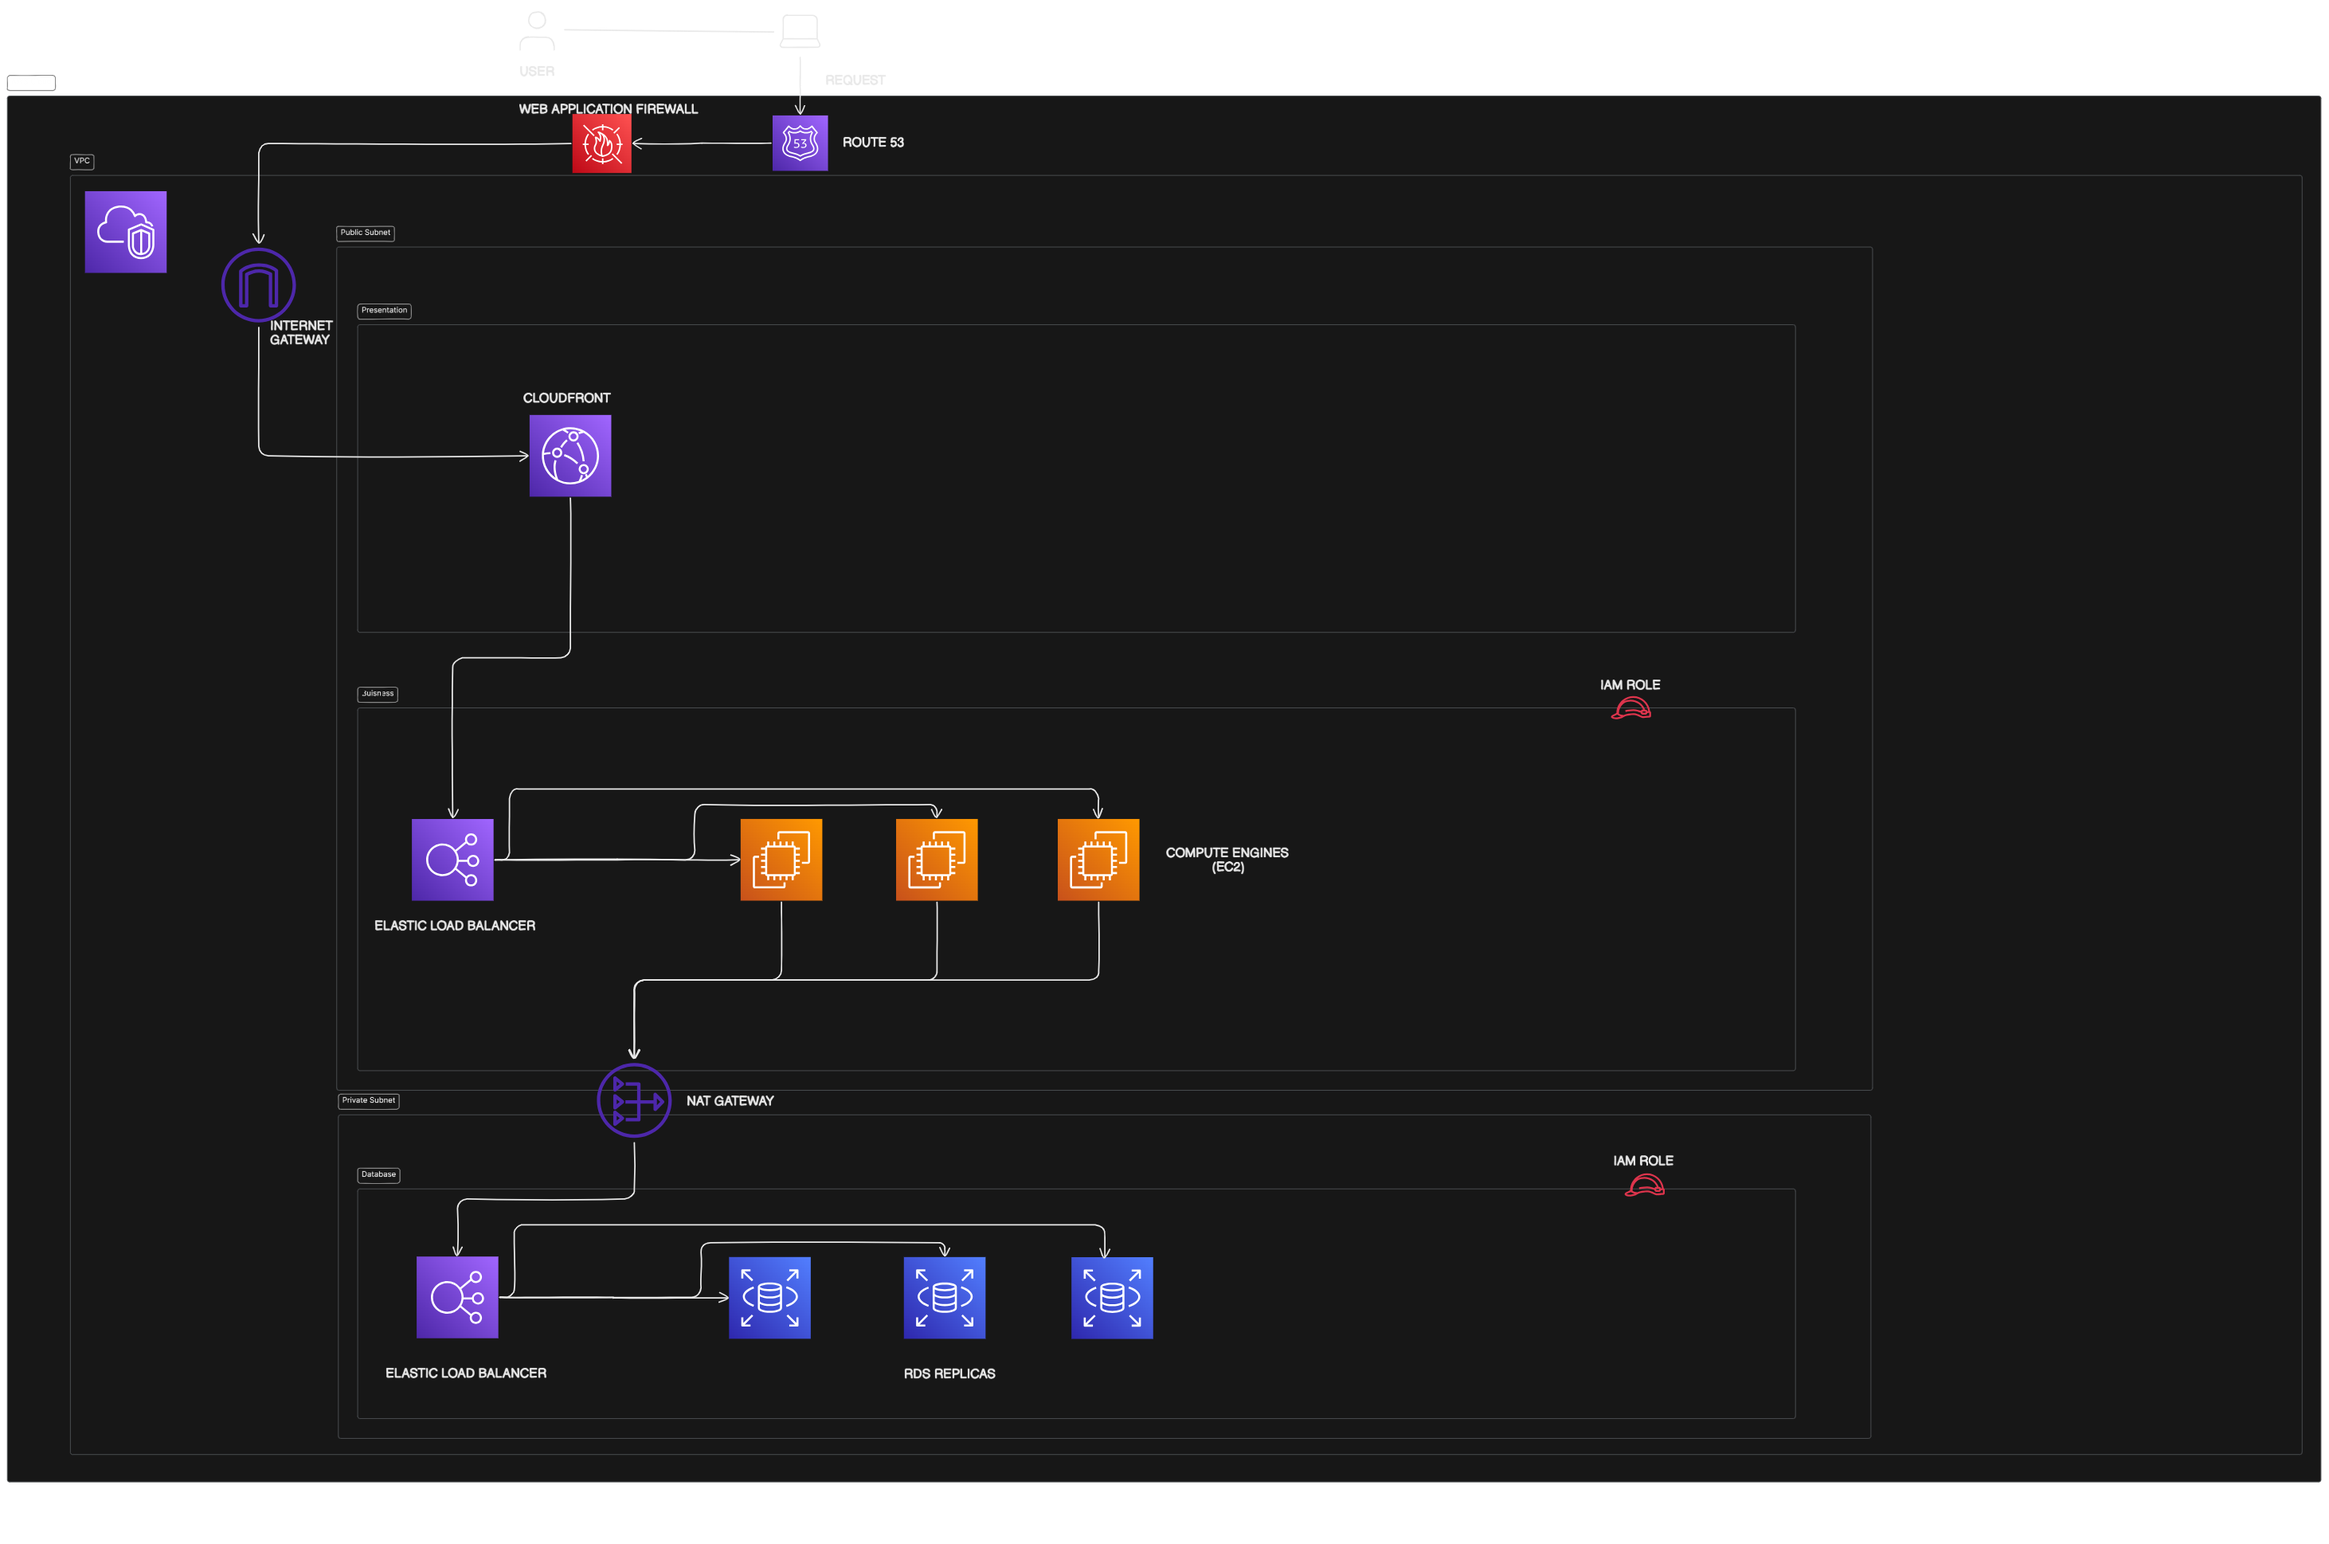
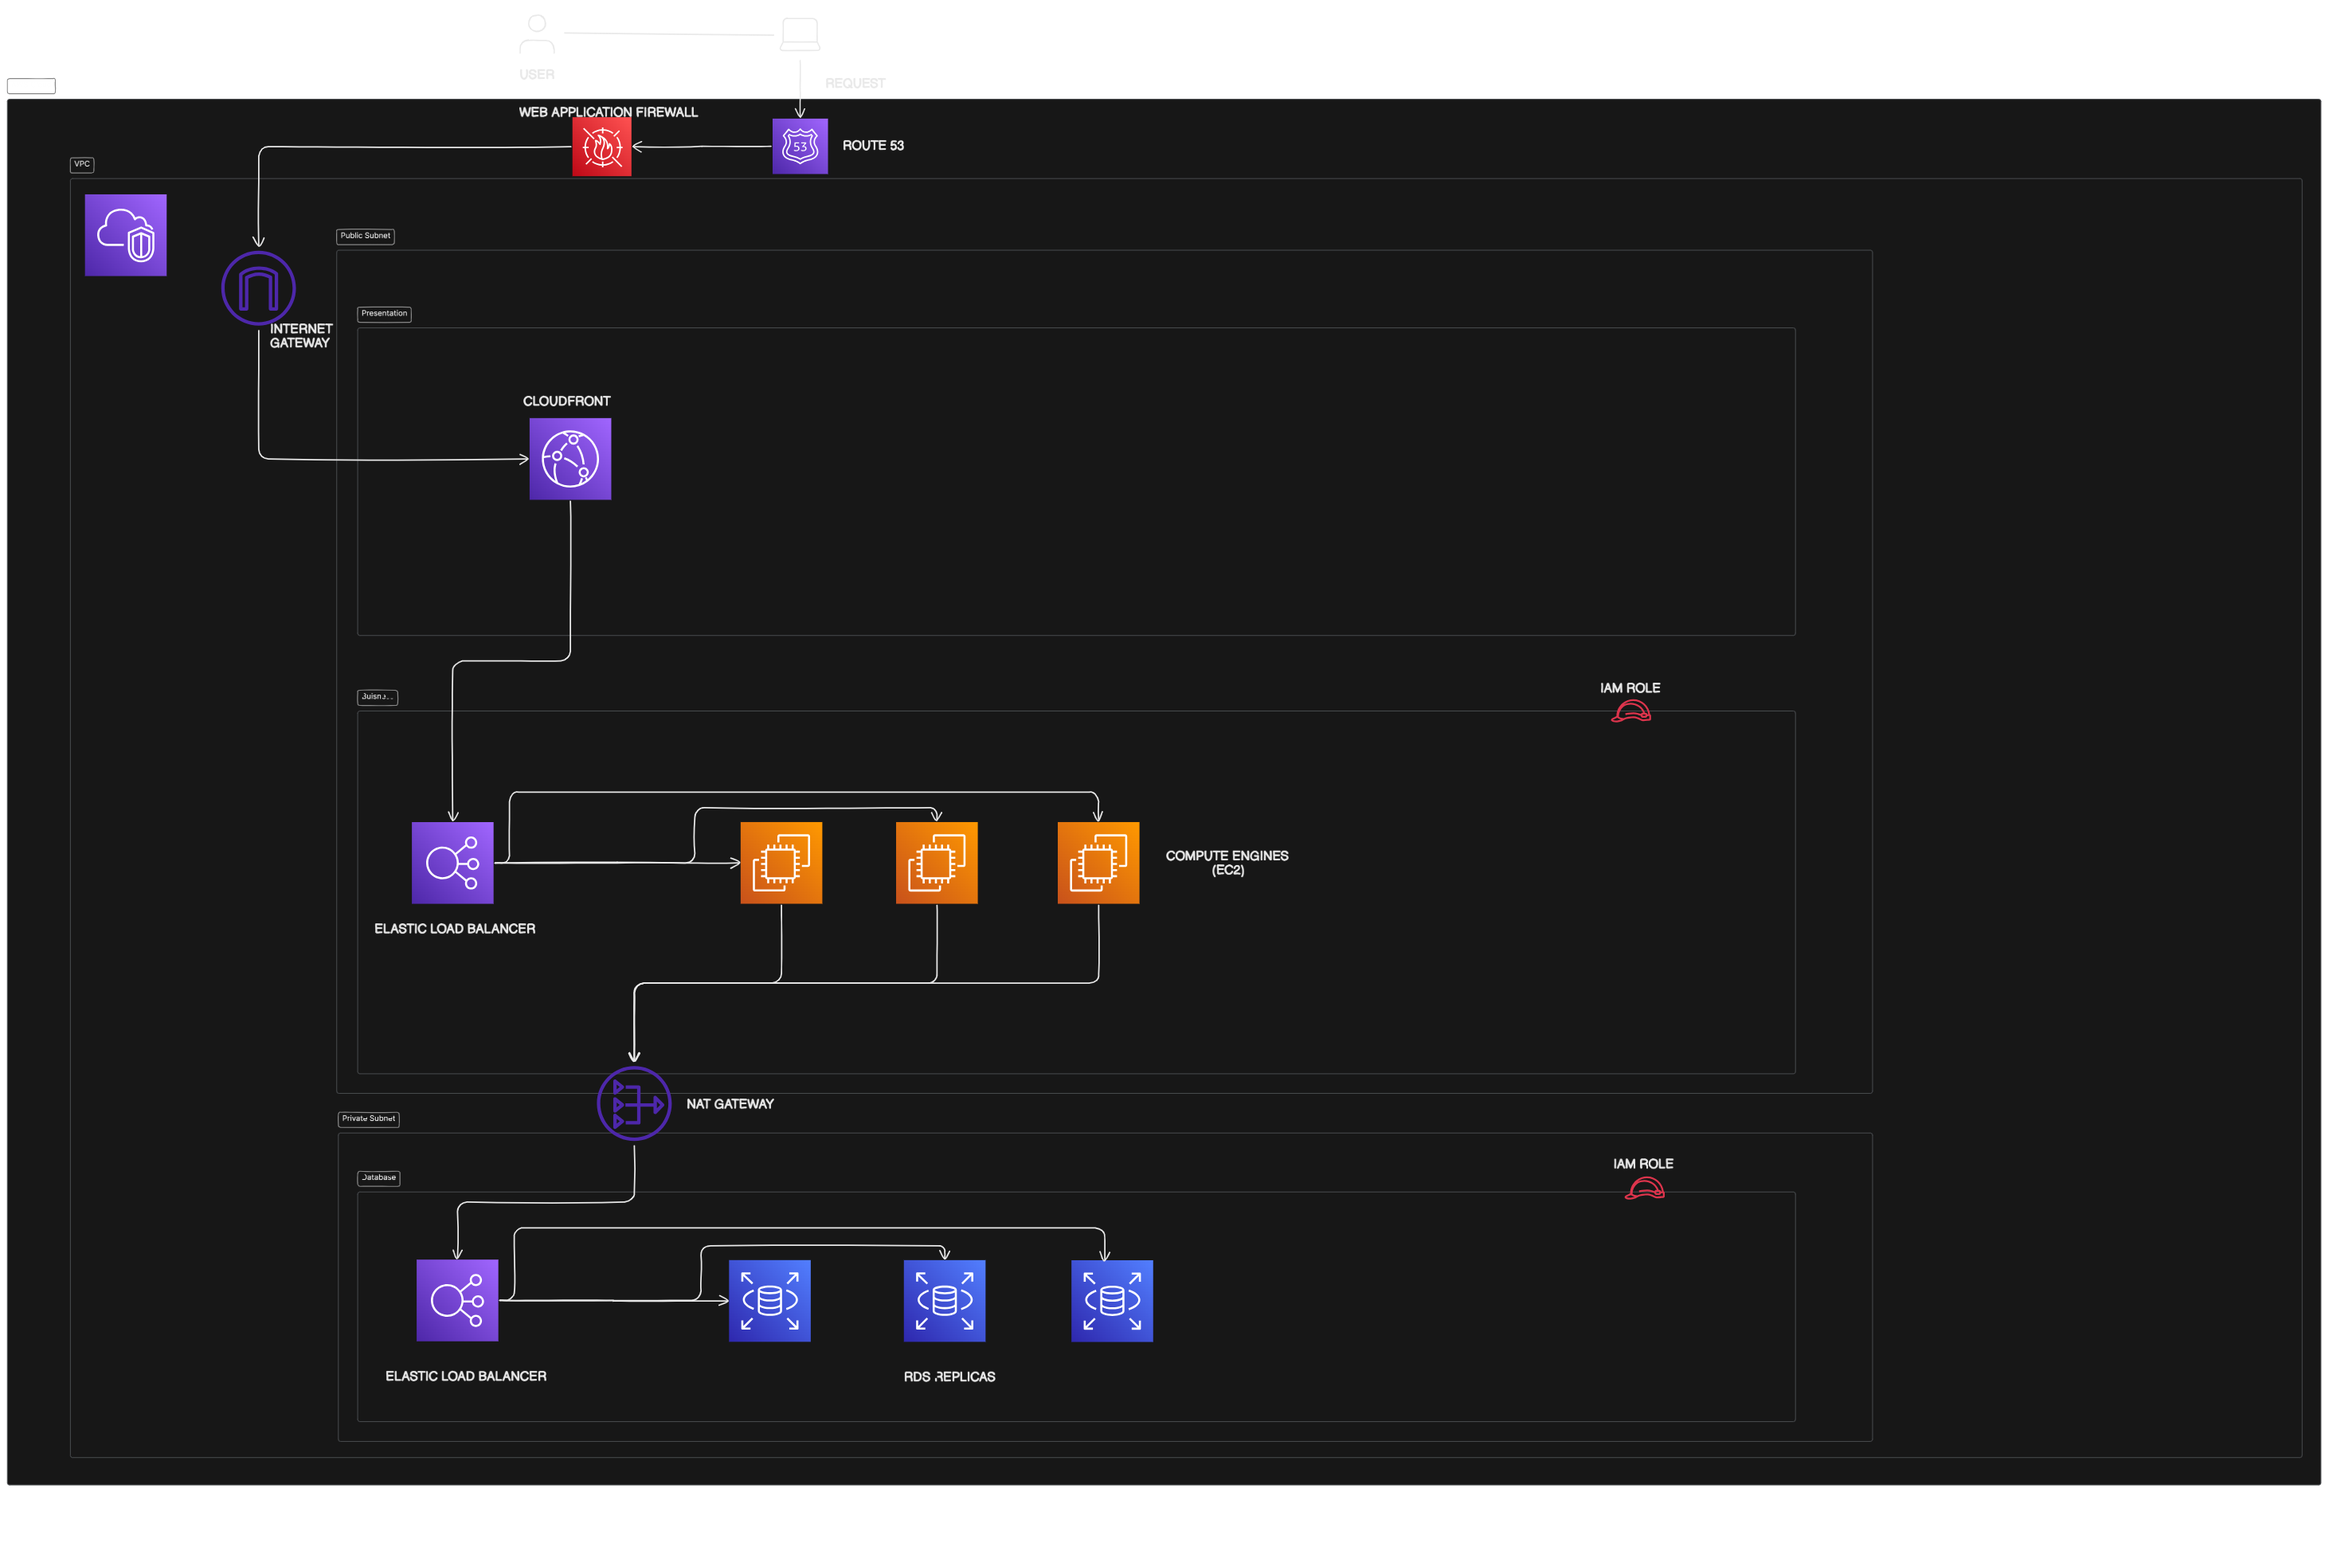
docs: Update README to correct subnet placement for the business tier

diff --git a/AWS_CLOUD_3-TIER_WEB_APPLICATION_ARCHITECTURE_DIAGRAM/README.md b/AWS_CLOUD_3-TIER_WEB_APPLICATION_ARCHITECTURE_DIAGRAM/README.md
@@ -8,7 +8,7 @@ A three-tier architecture divides an application into three logical and physical
 
 1.  **Presentation Tier (CloudFront / S3):** This is the user interface and the part of the application that the end-users interact with. It's responsible for displaying data to the user and collecting user input. In our AWS architecture, this tier is handled by Amazon S3 for hosting static web content and Amazon CloudFront as a Content Delivery Network (CDN) to cache content closer to users, reducing latency.
 
-2.  **Business / Logic Tier (EC2 / ECS):** This tier is the core of the application. It contains the business logic, processes user input from the presentation tier, and interacts with the data tier. We use Amazon EC2 instances or Amazon Elastic Container Service (ECS) to run the application code. This tier is placed in private subnets to protect it from direct internet access.
+2.  **Business / Logic Tier (EC2 / ECS):** This tier is the core of the application. It contains the business logic and processes user input from the presentation tier. In this architecture, the Amazon EC2 instances that run the application code are placed in the **public subnet**, allowing them to be directly accessed by the load balancer.
 
 3.  **Database Tier (RDS):** This tier is responsible for storing and managing the application's data. It consists of a database system. In our architecture, we use Amazon Relational Database Service (RDS), which is a managed database service that makes it easy to set up, operate, and scale a relational database in the cloud. For high availability and fault tolerance, we use RDS replicas. This tier is also placed in private subnets to ensure it's not exposed to the internet.
 
@@ -42,7 +42,7 @@ The following AWS services are used to build this three-tier architecture:
 
 Here is the visual representation of the three-tier architecture:
 
-![alt text](AWS_CLOUD_3-TIER_WEB_APPLICATION_ARCHITECTURE_DIAGRAM.png)
+![alt text](AWS_CLOUD_3-TIER_WEB_APPLICATION_ARCHITECTURE_DIAGRAM-1.png)
 
 ## Security Enhancements
 
